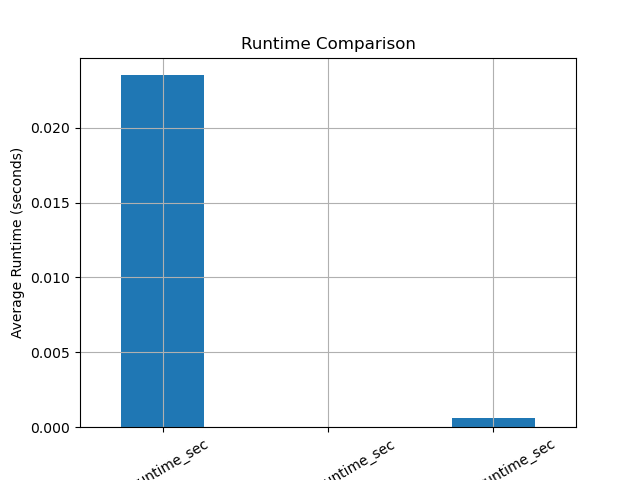
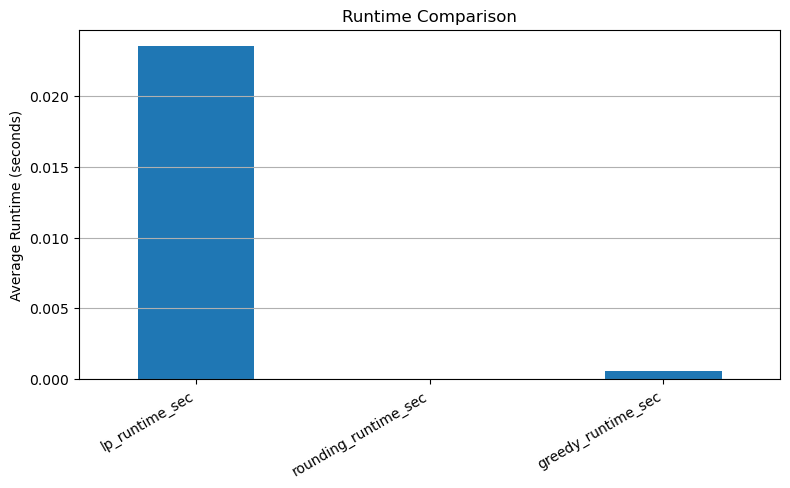
Fix runtime plot label layout

diff --git a/src/plots.py b/src/plots.py
@@ -59,13 +59,14 @@ runtime_cols = ["lp_runtime_sec", "rounding_runtime_sec", "greedy_runtime_sec"]
 
 runtime_means = df[runtime_cols].mean()
 
-plt.figure()
+plt.figure(figsize=(8, 5))
 runtime_means.plot(kind='bar')
 plt.ylabel("Average Runtime (seconds)")
 plt.title("Runtime Comparison")
-plt.xticks(rotation=30)
-plt.grid()
-plt.savefig(f"{OUTPUT_DIR}/runtime.png")
+plt.xticks(rotation=30, ha="right")
+plt.grid(axis="y")
+plt.tight_layout()
+plt.savefig(f"{OUTPUT_DIR}/runtime.png", bbox_inches="tight")
 plt.close()
 
 